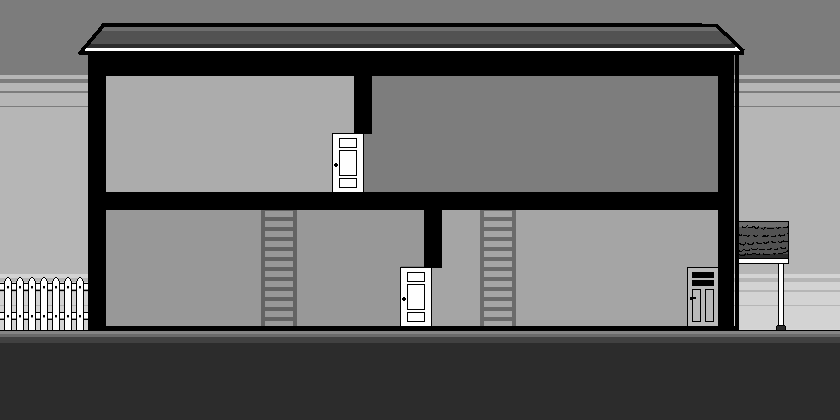
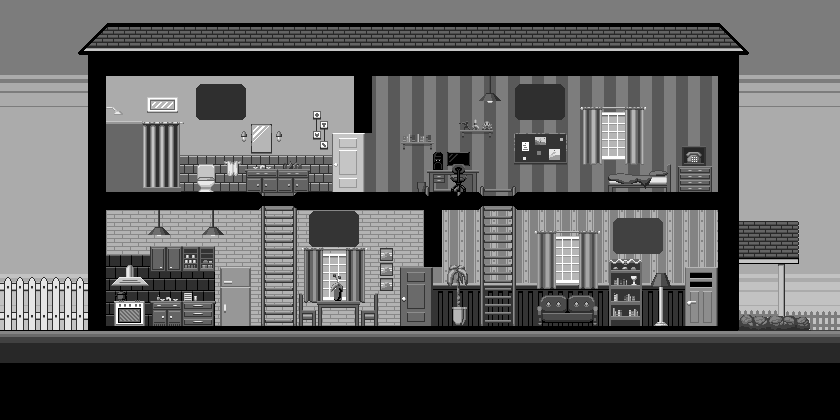
beta version for demo

diff --git a/src/game.js b/src/game.js
@@ -42,7 +42,7 @@ var backgroundMusic;
 
 var loadingText;
 
-function preload() {
+function preload() {   
 
     loadingText = this.add.text(380, 200, "Loading...", { fontSize: '12px', fill: '#fff' });
 
@@ -74,9 +74,10 @@ function preload() {
     this.load.image('RIGHT', 'assets/right_arrow.png');
     this.load.image('PHONE', 'assets/phone.png');
     this.load.image('DOOR', 'assets/door.png');
-    this.load.image('game_logo', 'assets/logo.gif');
+    this.load.image('game_logo', 'assets/logo.png');
 
-    this.load.spritesheet('start_game', 'assets/start_button.png', { frameWidth: 98, frameHeight: 24 });
+    this.load.spritesheet('start_game', 'assets/start_button_basico.png', { frameWidth: 119, frameHeight: 24 });
+    this.load.spritesheet('bg_grey', 'assets/background_grey.png', { frameWidth: 840, frameHeight: 420 });
     this.load.spritesheet('tutorial_image', 'assets/tutorial_image.png', { frameWidth: 180, frameHeight: 216 });
     this.load.spritesheet('static_dude', 'assets/static_dude.gif', { frameWidth: 36, frameHeight: 36 });
     this.load.spritesheet('running_left', 'assets/running_left.gif', { frameWidth: 36, frameHeight: 36 });
@@ -99,10 +100,10 @@ function create() {
     this.add.image(638, 236, 'tasks_living');
 
     phoneRingingImage = this.add.image(693, 125, 'PHONE');
-    phoneRingingImage.visible = false;
+    //phoneRingingImage.visible = false;
 
     doorknockImage = this.add.image(767, 240, 'DOOR');
-    doorknockImage.visible = false;
+    //doorknockImage.visible = false;
 
     platforms = this.physics.add.staticGroup();
 
@@ -181,14 +182,22 @@ function create() {
 
     scoreText = this.add.text(750, 16, "Score: " + globalScore, { fontSize: '12px', fill: '#fff' });
 
+    backgroundGrey = this.physics.add.sprite(420, 210, 'bg_grey');
+    backgroundGrey.body.allowGravity = false;
+    backgroundGrey.visible = true;
+
     buttonPlay = this.physics.add.sprite(414, 300, 'start_game');
     buttonPlay.body.allowGravity = false;
     buttonPlay.visible = true;
 
-    tutorialImage = this.physics.add.sprite(415, 150, 'tutorial_image');
+    tutorialImage = this.physics.add.sprite(220, 200, 'tutorial_image');
     tutorialImage.body.allowGravity = false;
 
-    this.add.image(44, 200, 'game_logo');
+    gameLogo = this.physics.add.sprite(415, 150, 'game_logo');
+    gameLogo.body.allowGravity = false;
+
+    programmers = this.add.text(200, 370, "Programming: Lucas Astor, Sebastián Uriarte, Bruno Cattáneo", { fontSize: '12px', fill: '#fff' });
+    designers = this.add.text(200, 385, "Art: Juan Fernández, Ramiro Nieto", { fontSize: '12px', fill: '#fff' });
 }
 
 function timesUp() {
@@ -303,7 +312,11 @@ function update() {
             gameStarted = true;
             startEvents(this);
             tutorialImage.destroy();
+            gameLogo.destroy();
             buttonPlay.destroy();
+            backgroundGrey.destroy();
+            programmers.destroy();
+            designers.destroy();
         }
     }
 }
